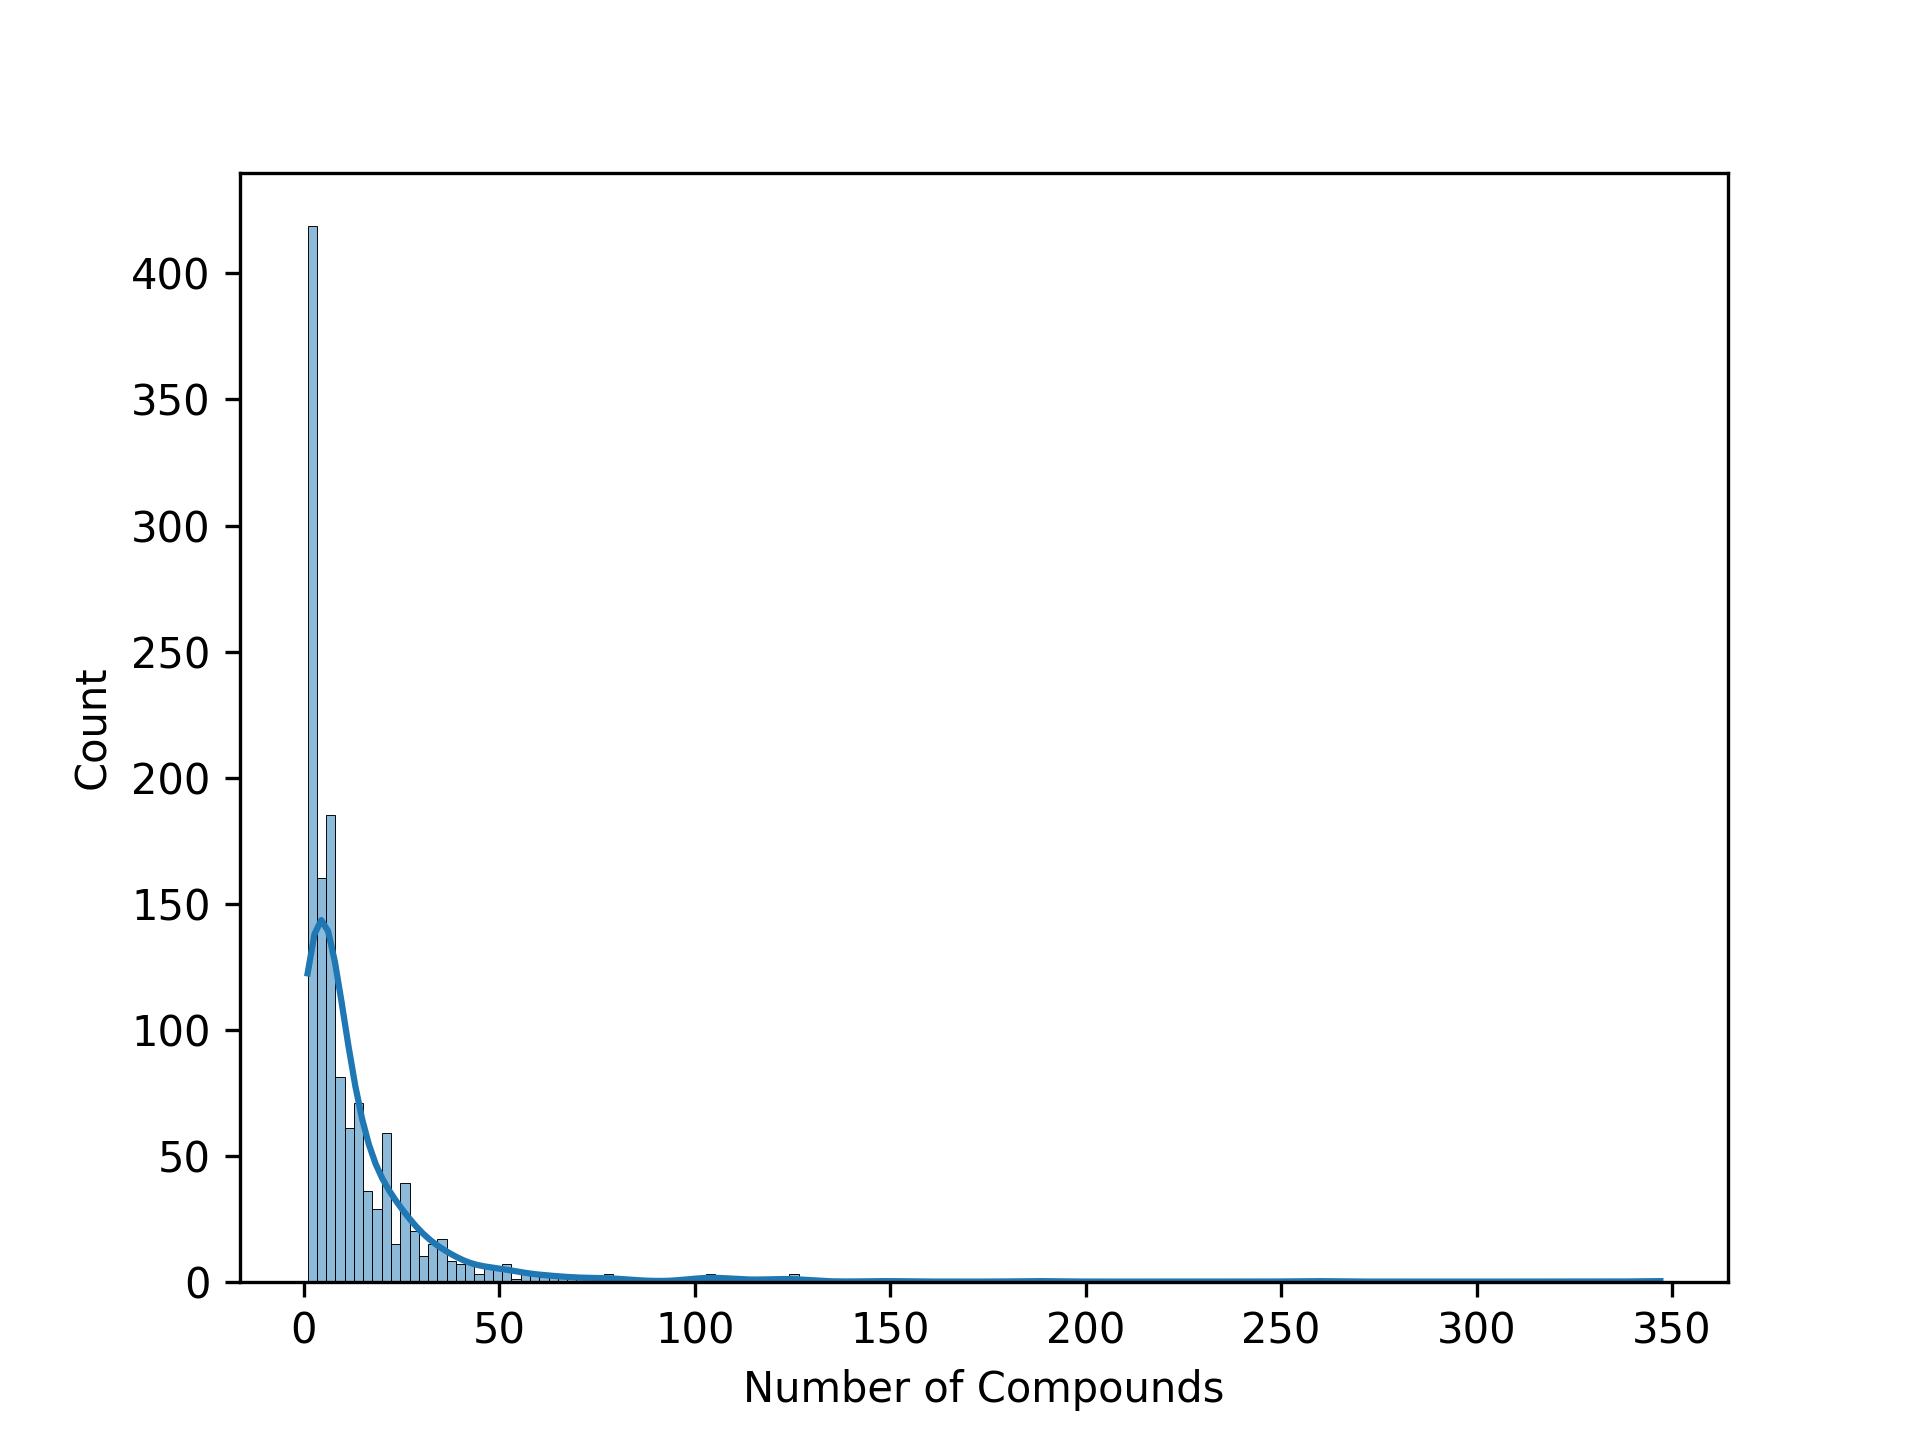
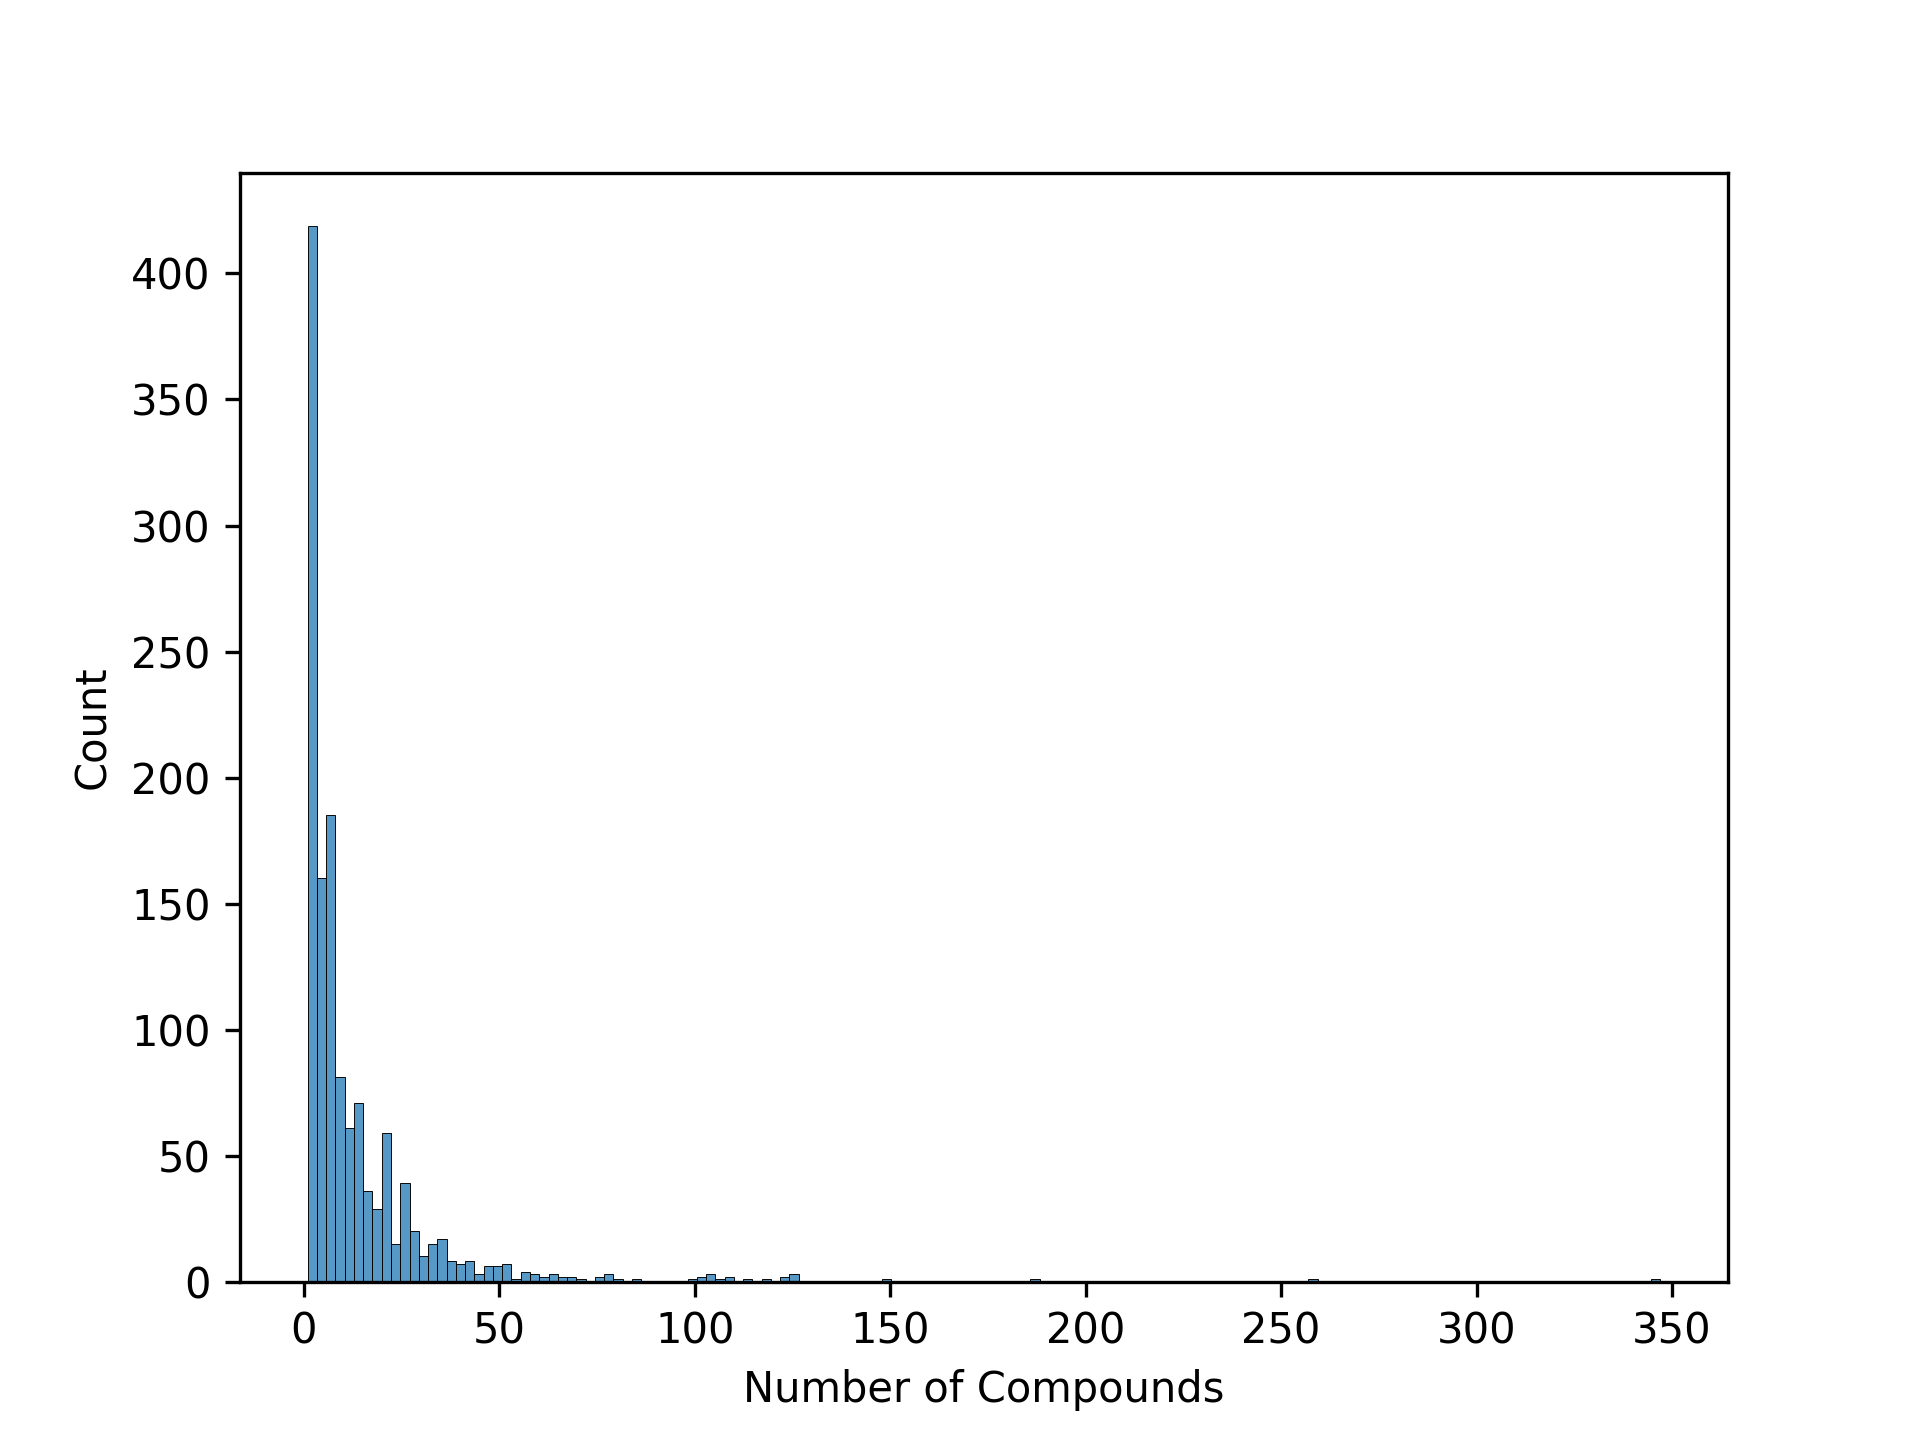
Remove KDE for plots

Changed region(s): [[0.1562, 0.1562, 0.4062, 0.9062]]

diff --git a/collect_and_compile_data/collect_compound_data/do_good_data_summaries.py b/collect_and_compile_data/collect_compound_data/do_good_data_summaries.py
@@ -14,20 +14,20 @@ def histogram_of_count_per_species():
     data_df = compound_data[['accepted_species', COMPOUND_ID_COL]].drop_duplicates()
     group_size = data_df.groupby(['accepted_species']).size()
     pd.DataFrame(group_size).to_csv(os.path.join(out_dir, 'counts_per_species.csv'))
-    sns.histplot(x=group_size, kde=True)
+    sns.histplot(x=group_size)
     plt.xlabel('Number of Compounds')
     plt.savefig(os.path.join(out_dir, 'histogram_of_count_per_species.png'), dpi=300)
     plt.close()
 
     group_size = group_size[group_size <= 100]
-    sns.histplot(x=group_size, kde=True)
+    sns.histplot(x=group_size)
     plt.xlabel('Number of Compounds')
     plt.savefig(os.path.join(out_dir, 'histogram_of_count_per_species_lt_100.png'), dpi=300)
     plt.close()
 
     group_size = data_df.groupby(['accepted_species']).size()
     group_size = group_size[group_size > 100]
-    sns.histplot(x=group_size, kde=True)
+    sns.histplot(x=group_size)
     plt.xlabel('Number of Compounds')
     plt.savefig(os.path.join(out_dir, 'histogram_of_count_per_species_gt_100.png'), dpi=300)
     plt.close()

diff --git a/collect_and_compile_data/get_diversity_metrics/gather_diversity_measures.py b/collect_and_compile_data/get_diversity_metrics/gather_diversity_measures.py
@@ -138,6 +138,9 @@ def get_number_of_apparent_pathways(df: pd.DataFrame, tag: str):
         measure_df['number_of_apparent_categories'] = measure_df['number_of_apparent_categories'] + measure_df[
             f'binary_identified_as_{pathway}']
 
+    with_all = measure_df[measure_df['number_of_apparent_categories']==7]
+    print(f'{len(with_all)} regions contained every pathway grouping used in this study')
+
     measure_df.to_csv(os.path.join('outputs', 'group_data', f'{tag}_pathway_info.csv'))
     measure_df.describe(include='all').to_csv(os.path.join('outputs', 'group_data', f'{tag}_pathway_info_summary.csv'))
 
